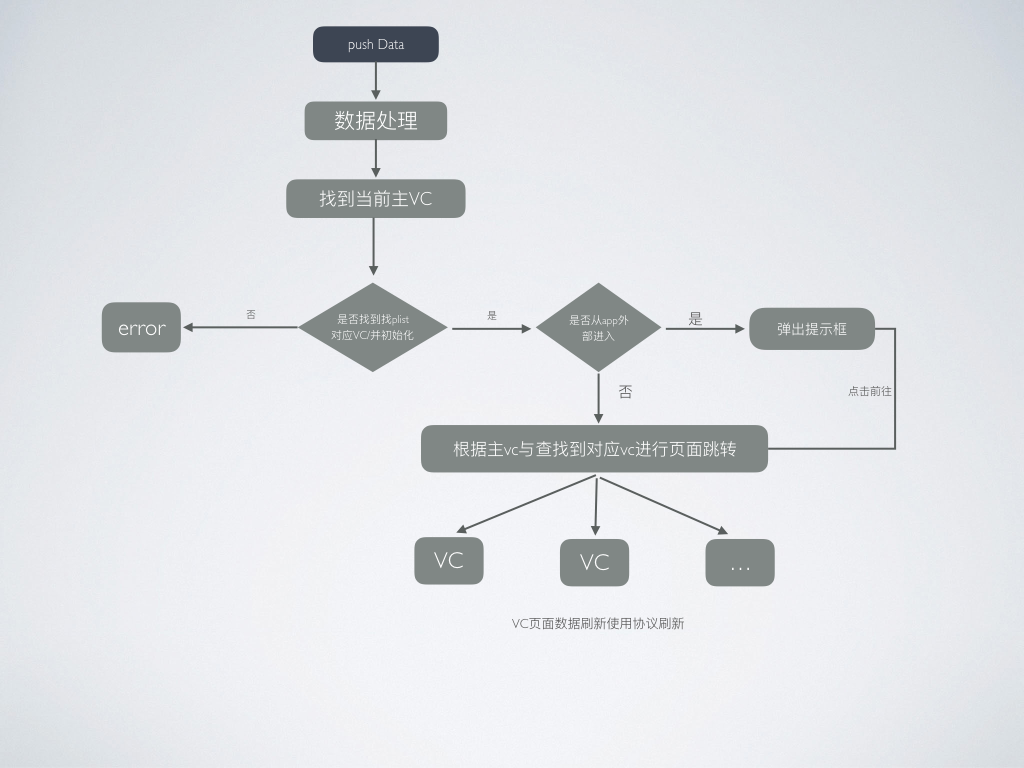
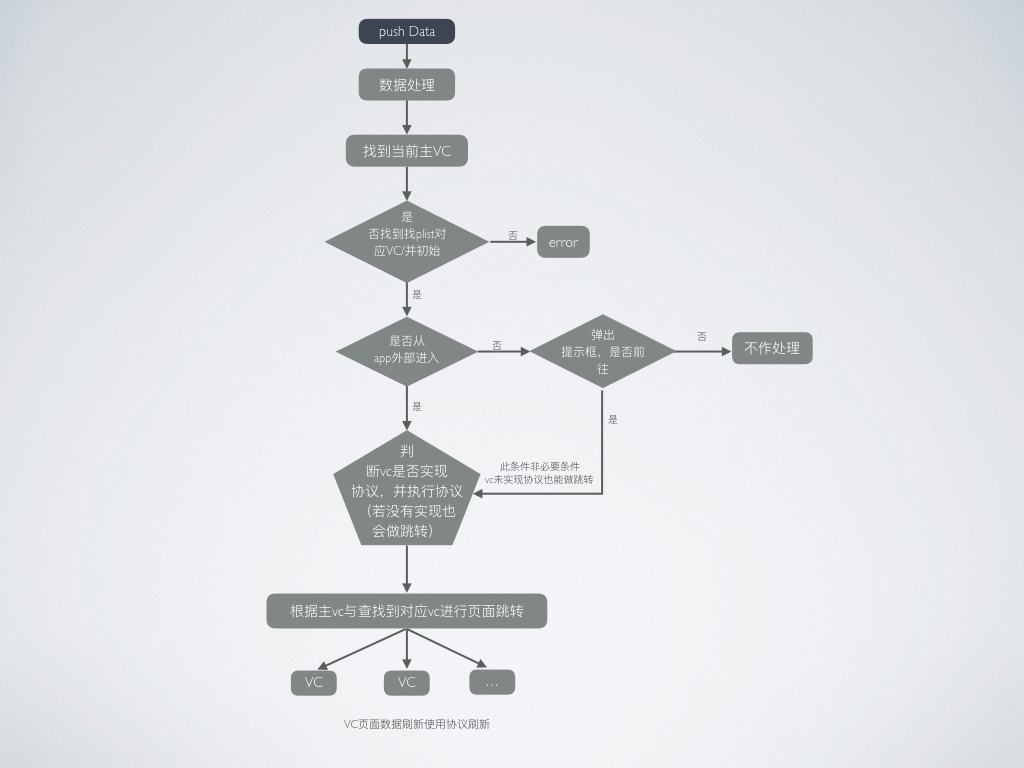
【modify】修改readme文件图片

diff --git a/SJPushFlowDemo/SJPushFlow/SJPushDataOperation.swift b/SJPushFlowDemo/SJPushFlow/SJPushDataOperation.swift
@@ -52,19 +52,17 @@ class PushDataOperation {
             return
         }
         
-        self.protocolViewController(pushData: pushData)
-        
         if self.applicationStateIsActive(isPushWeakApp: isPushWeakApp) == true
         {
             self.showAlertWithMessage(message: pushData.object(forKey: "alert") as! String, cancel: { (UIAlertAction) in
                 print("取消")
             }, goSee: { (UIAlertAction) in
-                self.vcSkip()
+                self.vcSkip(pushData: pushData)
             })
         }
         else
         {
-            self.vcSkip()
+            self.vcSkip(pushData: pushData)
         }
         
     }
@@ -107,7 +105,10 @@ class PushDataOperation {
     
 
     /// 页面跳转
-    func vcSkip(){
+    func vcSkip(pushData: NSDictionary){
+        
+        // 判断vc是否满足 更新数据协议
+        self.protocolViewController(pushData: pushData)
         
         if rootVC.navigationController != nil
         {
@@ -139,8 +140,6 @@ class PushDataOperation {
     }
     
     
-    
-    /// 判断vc是否满足 更新数据协议
     func protocolViewController(pushData: NSDictionary){
         if plistVC is SJPushDataVCProtocol {
             (plistVC as! SJPushDataVCProtocol).upData(pushData: pushData)
